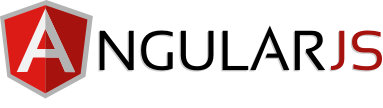
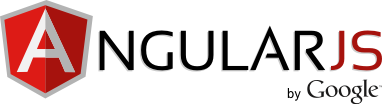
presentation, images

Changed region(s): [[0.7467, 0.7222, 1.0, 0.9722]]

diff --git a/presentation.html b/presentation.html
@@ -87,7 +87,11 @@
             <header><h1>AngularJS</h1></header>
             
             
-            <section><p>A Javascript MVC framework</p>
+            <section><ul>
+<li>A Javascript MVC framework</li>
+<li>Made by Google</li>
+</ul>
+<h1>Features</h1>
 <ul>
 <li>two way data binding</li>
 <li>routing</li>
@@ -122,11 +126,11 @@
         <div class="slide">
           <div class="inner">
             
-            <header><h1>WAT??</h1></header>
+            <header><h1>WHAT??</h1></header>
             
             
-            <section><p><img alt="scratch head pic" src="img/consumer-reports-discovers-problem-with-the-ipad.jpg" /></p>
-<h1>Cum am ajuns aici?</h1></section>
+            <section><p><img alt="onward" src="img/steve-ballmer-shrug.jpg" /></p>
+<p>Cum am ajuns aici?</p></section>
             
           </div>
           <div class="presenter_notes">
@@ -254,7 +258,7 @@
             
             <section><ul>
 <li>Am renunțat la Views pe server-side</li>
-<li>Codul pentru a asambla pagini: jQuery -&gt; Javascript MVC Framework</li>
+<li>Codul pentru a asambla pagini: jQuery -&gt; Javascript MVC Framework -&gt; Single Page Apps</li>
 </ul>
 <p><img alt="" src="img/7.png" /></p></section>
             
@@ -284,7 +288,7 @@
           <div class="inner">
             
             
-            <section><p><img alt="onward" src="img/steve-ballmer-shrug.jpg" /></p></section>
+            <section><p><img alt="onward" src="img/GTY_steve_ballmer_jef_130823_16x9_992.jpg" /></p></section>
             
           </div>
           <div class="presenter_notes">
@@ -515,6 +519,7 @@ Prin hash part al URL-ului</p>
             <section><ul>
 <li>Serviciile sunt injected in controllere</li>
 <li>Pot fi mocked pentru testare</li>
+<li>Named parameters</li>
 </ul>
 <h2>Testable, mockable</h2>
 <ul>
@@ -1009,6 +1014,34 @@ Prin hash part al URL-ului</p>
         <div class="slide">
           <div class="inner">
             
+            
+            <section><p><img alt="MOAR" src="img/Steve-Ballmer-To-Retire-As-Microsoft-CEO-Within-12-Months-3.jpg" /></p></section>
+            
+          </div>
+          <div class="presenter_notes">
+            <header><h1>Presenter Notes</h1></header>
+            <section>
+            
+            </section>
+          </div>
+          <footer>
+            
+            <aside class="source">
+              Source: <a href="README.md">README.md</a>
+            </aside>
+            
+            <aside class="page_number">
+              28/31
+            </aside>
+          </footer>
+        </div>
+      </div>
+      
+      <!-- slide source: README.md -->
+      <div class="slide-wrapper">
+        <div class="slide">
+          <div class="inner">
+            
             <header><h1>The future</h1></header>
             
             
@@ -1044,7 +1077,7 @@ Prin hash part al URL-ului</p>
             </aside>
             
             <aside class="page_number">
-              28/31
+              29/31
             </aside>
           </footer>
         </div>
@@ -1077,39 +1110,6 @@ Prin hash part al URL-ului</p>
             </aside>
             
             <aside class="page_number">
-              29/31
-            </aside>
-          </footer>
-        </div>
-      </div>
-      
-      <!-- slide source: README.md -->
-      <div class="slide-wrapper">
-        <div class="slide">
-          <div class="inner">
-            
-            <header><h1>More</h1></header>
-            
-            
-            <section><p>http://act2.me/full-stack-web-development/ 
-http://www.sitepoint.com/10-reasons-use-angularjs/ 
-http://en.wikipedia.org/wiki/AngularJS</p>
-<p>http://www.igvita.com/posa/high-performance-networking-in-google-chrome/ </p></section>
-            
-          </div>
-          <div class="presenter_notes">
-            <header><h1>Presenter Notes</h1></header>
-            <section>
-            
-            </section>
-          </div>
-          <footer>
-            
-            <aside class="source">
-              Source: <a href="README.md">README.md</a>
-            </aside>
-            
-            <aside class="page_number">
               30/31
             </aside>
           </footer>
@@ -1124,7 +1124,8 @@ http://en.wikipedia.org/wiki/AngularJS</p>
             <header><h1>Mulțumesc</h1></header>
             
             
-            <section><p><img alt="" src="img/Ballmer-Tampers-the-Milking-of-Microsoft-Main-Cash-Cow-2.png" /></p></section>
+            <section><p><img alt="" src="img/Ballmer-Tampers-the-Milking-of-Microsoft-Main-Cash-Cow-2.png" /></p>
+<p><a href="https://github.com/wooptoo/introducere_in_angularjs">https://github.com/wooptoo/introducere_in_angularjs</a></p></section>
             
           </div>
           <div class="presenter_notes">
@@ -1167,7 +1168,7 @@ http://en.wikipedia.org/wiki/AngularJS</p>
       
       
       <tr id="toc-row-3">
-        <th><a href="#slide3">WAT??</a></th>
+        <th><a href="#slide3">WHAT??</a></th>
         <td><a href="#slide3">3</a></td>
       </tr>
       
@@ -1318,19 +1319,19 @@ http://en.wikipedia.org/wiki/AngularJS</p>
       
       
       <tr id="toc-row-28">
-        <th><a href="#slide28">The future</a></th>
+        <th><a href="#slide28">-</a></th>
         <td><a href="#slide28">28</a></td>
       </tr>
       
       
       <tr id="toc-row-29">
-        <th><a href="#slide29">So why use AngularJS?</a></th>
+        <th><a href="#slide29">The future</a></th>
         <td><a href="#slide29">29</a></td>
       </tr>
       
       
       <tr id="toc-row-30">
-        <th><a href="#slide30">More</a></th>
+        <th><a href="#slide30">So why use AngularJS?</a></th>
         <td><a href="#slide30">30</a></td>
       </tr>
       

diff --git a/README.md b/README.md
@@ -10,7 +10,11 @@ Radu Potop
 AngularJS
 =========
 
-A Javascript MVC framework
+* A Javascript MVC framework
+* Made by Google
+
+Features
+========
 
 * two way data binding
 * routing
@@ -21,13 +25,12 @@ A Javascript MVC framework
 
 --------------------------
 
-WAT??
-=====
+WHAT??
+======
 
-![scratch head pic](img/consumer-reports-discovers-problem-with-the-ipad.jpg)
+![onward](img/steve-ballmer-shrug.jpg)
 
 Cum am ajuns aici?
-==================
 
 --------------------------
 
@@ -56,13 +59,13 @@ Un pic de istorie
 --------------------------
 
 * Am renunțat la Views pe server-side
-* Codul pentru a asambla pagini: jQuery -> Javascript MVC Framework
+* Codul pentru a asambla pagini: jQuery -> Javascript MVC Framework -> Single Page Apps
 
 ![](img/7.png)
 
 --------------------------
 
-![onward](img/steve-ballmer-shrug.jpg)
+![onward](img/GTY_steve_ballmer_jef_130823_16x9_992.jpg)
 
 --------------------------
 
@@ -162,6 +165,7 @@ Dependency Injection
 
 * Serviciile sunt injected in controllere
 * Pot fi mocked pentru testare
+* Named parameters
 
 ## Testable, mockable
 
@@ -314,6 +318,10 @@ Filters
 
 --------------------------
 
+![MOAR](img/Steve-Ballmer-To-Retire-As-Microsoft-CEO-Within-12-Months-3.jpg)
+
+--------------------------
+
 The future
 ==========
 
@@ -341,18 +349,9 @@ So why use AngularJS?
 
 --------------------------
 
-More
-====
-
-http://act2.me/full-stack-web-development/ 
-http://www.sitepoint.com/10-reasons-use-angularjs/ 
-http://en.wikipedia.org/wiki/AngularJS
-
-http://www.igvita.com/posa/high-performance-networking-in-google-chrome/ 
-
---------------------------
-
 Mulțumesc
 =========
 
 ![](img/Ballmer-Tampers-the-Milking-of-Microsoft-Main-Cash-Cow-2.png)
+
+[https://github.com/wooptoo/introducere_in_angularjs](https://github.com/wooptoo/introducere_in_angularjs)
